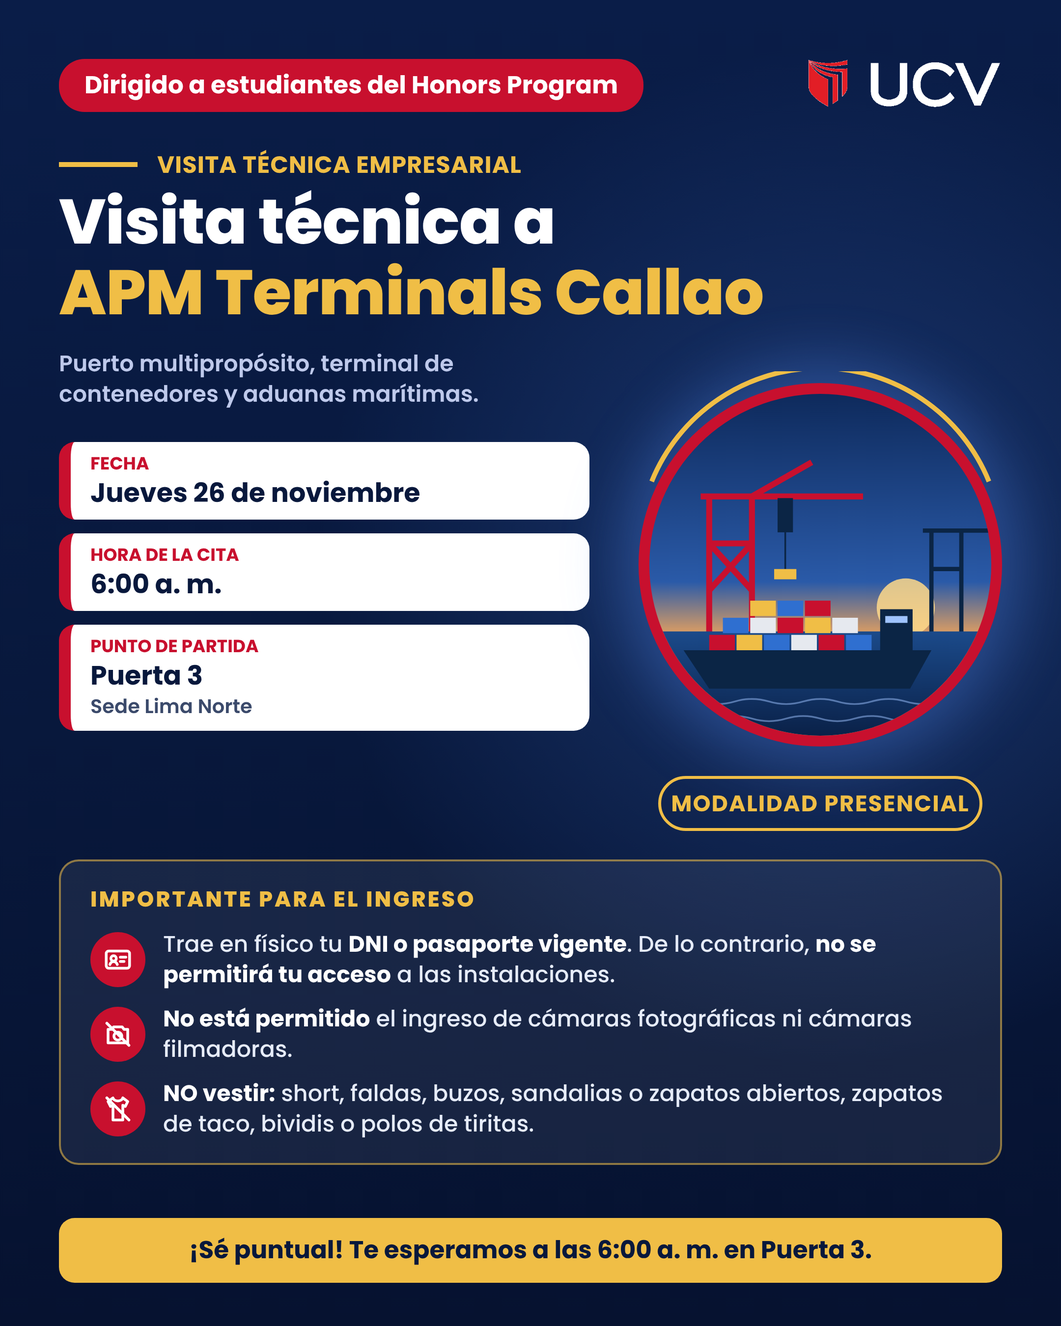
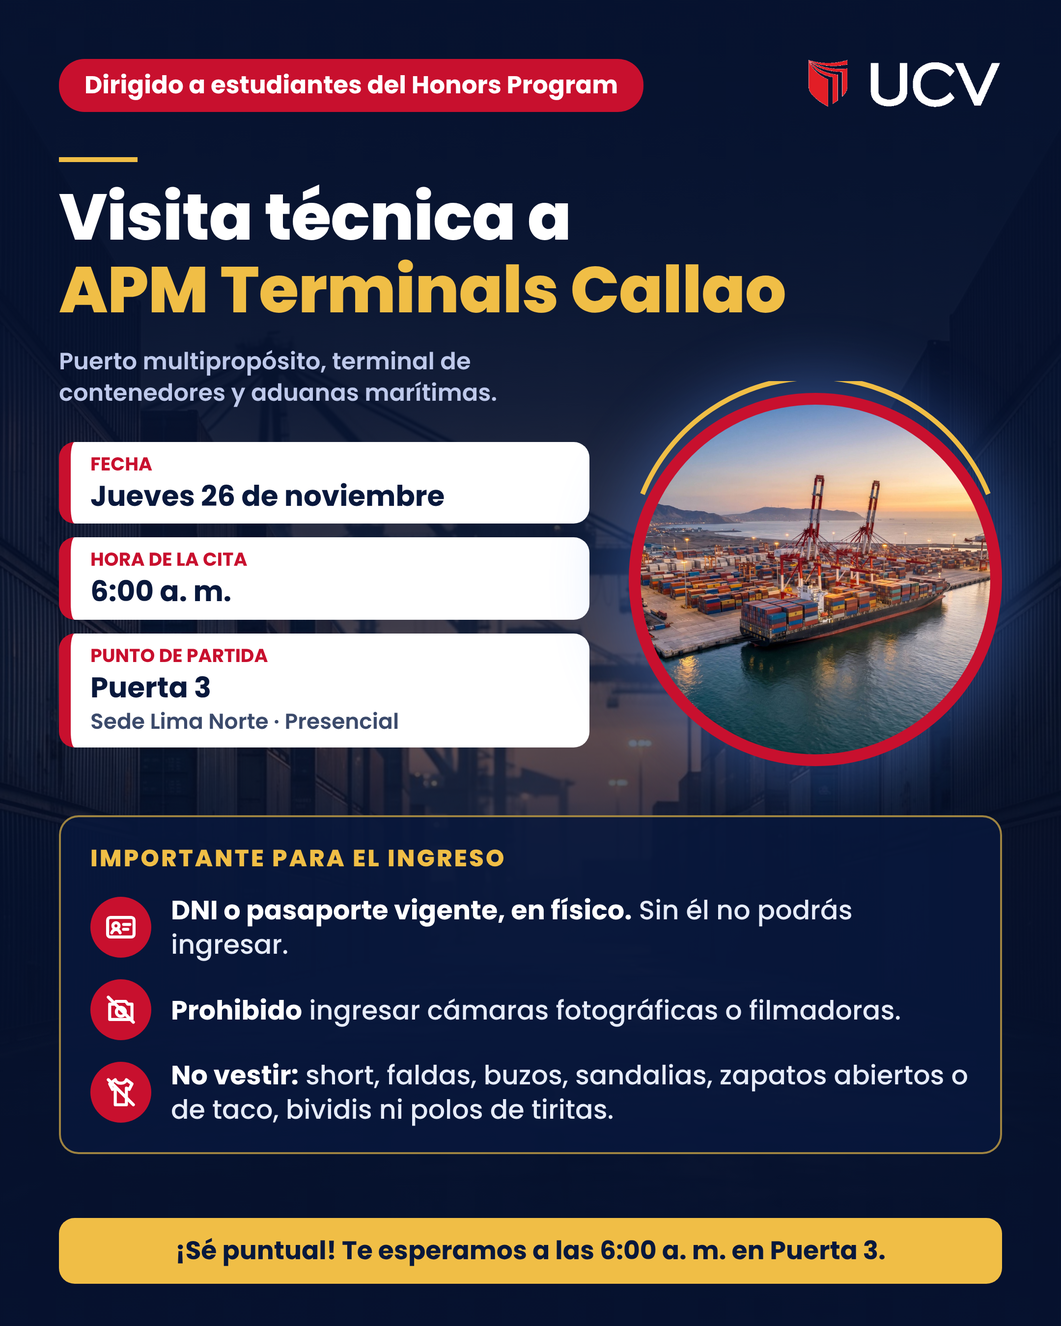
Use port photos in APM flyers and apply design critique fixes
Claude-Session: https://claude.ai/code/session_01MbSN7717AodApa1qAjWUzD

diff --git a/flyer-apm/modelo2_dinamico.html b/flyer-apm/modelo2_dinamico.html
@@ -5,58 +5,51 @@
 *{margin:0;padding:0;box-sizing:border-box}
 :root{--rojo:#d7132a;--navy:#13235b;--azul:#2a49b8;--amar:#ffd21f}
 body{width:1080px;height:1620px;font-family:'Montserrat',sans-serif;position:relative;overflow:hidden;background:#fff;color:var(--navy)}
-.halo{position:absolute;left:470px;top:230px;width:720px;height:720px;border-radius:50%;background:radial-gradient(circle,#eef2fb 0%,#e3e9f8 60%,#dfe6f7 100%)}
+.halo{position:absolute;left:470px;top:210px;width:720px;height:720px;border-radius:50%;background:radial-gradient(circle,#eef2fb 0%,#e3e9f8 60%,#dfe6f7 100%)}
 .pills{position:absolute;left:36px;top:28px;display:flex;gap:12px}
 .pill{font-size:21px;font-weight:700;padding:9px 22px;border-radius:30px;border:3px solid var(--navy)}
 .pill.r{background:var(--rojo);border-color:var(--rojo);color:#fff}
 .logo{position:absolute;right:40px;top:28px;height:46px}
 .head{position:absolute;left:44px;top:118px;display:flex;gap:16px;align-items:center;font-size:19px;font-weight:700;line-height:1.15}
 .head svg{width:40px;height:40px;stroke:var(--navy);fill:none;stroke-width:2}
-.info{position:absolute;right:30px;top:112px;width:330px;border:3px solid var(--amar);border-radius:18px;padding:10px 14px;text-align:center;font-size:15px;font-weight:600;background:#fff;box-shadow:0 4px 12px rgba(0,0,0,.08)}
-.info b{color:var(--rojo)}
 .ban{position:absolute;left:30px;font-weight:900;font-style:italic;text-transform:uppercase;transform:rotate(-4deg);transform-origin:left;padding:4px 30px 6px 18px;white-space:nowrap;
  clip-path:polygon(2% 0,100% 0,96% 50%,100% 100%,0 100%,3% 50%)}
 .b1{top:200px;background:var(--amar);font-size:34px;color:var(--navy)}
 .b2{top:262px;background:var(--rojo);color:#fff;font-size:64px}
 .b3{top:352px;background:var(--navy);color:#fff;font-size:64px}
-.script{position:absolute;left:44px;top:465px;font-family:'Montserrat';font-weight:900;font-style:italic;font-size:34px;line-height:1.05;transform:rotate(-4deg);transform-origin:left}
+.script{position:absolute;left:44px;top:470px;font-weight:900;font-style:italic;font-size:36px;line-height:1.05;transform:rotate(-4deg);transform-origin:left}
 .script span{display:block;color:var(--rojo)}
-.desc{position:absolute;left:44px;top:600px;width:420px;border-left:5px solid var(--rojo);padding-left:16px;font-size:23px;font-weight:500;line-height:1.35}
+.desc{position:absolute;left:44px;top:610px;width:440px;border-left:5px solid var(--rojo);padding-left:16px;font-size:25px;font-weight:500;line-height:1.35}
 .desc b{color:var(--rojo)}
-.saborea{position:absolute;right:46px;top:250px;font-family:'Kaushan Script';font-size:40px;color:var(--navy);transform:rotate(-8deg);text-align:right;line-height:1.05}
-.saborea span{color:var(--rojo)}
-.port{position:absolute;left:520px;top:400px;width:470px;height:470px;border-radius:50%;overflow:hidden;border:10px solid #fff;box-shadow:0 10px 30px rgba(19,35,91,.25)}
-.port img{width:100%;height:100%}
-.badge{position:absolute;left:470px;top:820px;background:#fff;border-radius:22px;box-shadow:0 6px 18px rgba(0,0,0,.15);padding:10px 22px 10px 12px;display:flex;align-items:center;gap:14px}
-.badge .ci{width:58px;height:58px;border-radius:50%;background:var(--navy);display:grid;place-items:center}
-.badge .ci svg{width:30px;height:30px;stroke:var(--amar);fill:none;stroke-width:2.2}
-.badge small{display:block;font-size:16px;font-weight:600;color:#55607f}
-.badge b{display:inline-block;background:var(--navy);color:#fff;font-style:italic;font-weight:900;font-size:24px;padding:3px 16px;border-radius:10px;transform:rotate(-2deg)}
+.port{position:absolute;left:510px;top:380px;width:500px;height:500px;border-radius:50%;overflow:hidden;border:10px solid #fff;box-shadow:0 10px 30px rgba(19,35,91,.25)}
+.port img{width:100%;height:100%;object-fit:cover;object-position:52% 55%}
 .blue{position:absolute;left:0;right:0;top:930px;bottom:0;background:repeating-linear-gradient(135deg,#2746b3 0 22px,#2a4bbd 22px 44px)}
 .wave{position:absolute;left:0;right:0;top:905px;height:60px}
-.when{position:absolute;left:40px;right:40px;top:985px;background:#fff;border-radius:30px;box-shadow:0 8px 0 var(--amar);display:flex;align-items:center;padding:22px 0}
-.when > div{flex:1;display:flex;align-items:center;justify-content:center;gap:18px}
+.when{position:absolute;left:30px;right:30px;top:975px;background:#fff;border-radius:30px;box-shadow:0 8px 0 var(--amar);display:flex;align-items:center;padding:22px 0}
+.when > div{flex:1;display:flex;align-items:center;justify-content:center;gap:14px}
 .when > div + div{border-left:3px solid #dfe4f2}
-.when .ci{width:66px;height:66px;border-radius:50%;background:var(--navy);display:grid;place-items:center}
-.when .ci svg{width:34px;height:34px;stroke:#fff;fill:none;stroke-width:2}
-.when small{display:block;font-size:17px;font-weight:700;color:var(--rojo)}
-.when b{font-size:34px;font-weight:900;font-style:italic;color:var(--navy)}
-.reqs{position:absolute;left:40px;right:40px;top:1160px;display:flex;color:#fff}
+.when .ci{flex:none;width:58px;height:58px;border-radius:50%;background:var(--navy);display:grid;place-items:center}
+.when .ci svg{width:30px;height:30px;stroke:#fff;fill:none;stroke-width:2}
+.when small{display:block;font-size:16px;font-weight:700;color:var(--rojo)}
+.when b{display:block;font-size:30px;font-weight:900;font-style:italic;color:var(--navy);line-height:1.1}
+.when i{display:block;font-style:normal;font-size:16px;font-weight:600;color:#55607f}
+.reqs{position:absolute;left:30px;right:30px;top:1135px;display:flex;color:#fff}
 .reqs > div{flex:1;text-align:center;padding:0 14px}
 .reqs > div + div{border-left:2px solid rgba(255,255,255,.3)}
 .reqs .ci{width:84px;height:84px;margin:0 auto 12px;border-radius:50%;border:3px solid var(--amar);display:grid;place-items:center}
 .reqs .ci svg{width:42px;height:42px;stroke:var(--amar);fill:none;stroke-width:2;stroke-linecap:round;stroke-linejoin:round}
-.reqs h3{font-size:22px;font-weight:800;line-height:1.15}
-.reqs p{margin-top:8px;font-size:17px;font-weight:500;line-height:1.35;color:#dfe6ff}
-.alert{position:absolute;left:40px;right:40px;top:1440px;text-align:center;font-size:19px;font-weight:700;color:var(--navy);background:var(--amar);border-radius:16px;padding:12px 10px}
-.bye{position:absolute;left:0;right:0;top:1515px;text-align:center;font-family:'Kaushan Script';font-size:52px;color:#fff;transform:rotate(-3deg)}
+.reqs h3{font-size:28px;font-weight:800;line-height:1.15}
+.reqs p{margin-top:8px;font-size:24px;font-weight:500;line-height:1.3;color:#eef2ff}
+.alert{position:absolute;left:30px;right:30px;top:1445px;display:flex;align-items:center;justify-content:center;gap:12px;font-size:23px;font-weight:800;color:var(--navy);background:var(--amar);border-radius:16px;padding:12px 10px}
+.alert svg{width:30px;height:30px;stroke:var(--navy);fill:none;stroke-width:2.4;stroke-linecap:round;stroke-linejoin:round}
+.bye{position:absolute;left:0;right:0;top:1520px;text-align:center;font-family:'Kaushan Script';font-size:52px;color:#fff;transform:rotate(-3deg)}
 .bye span{color:var(--amar)}
 </style></head><body>
 <div class="halo"></div>
 <div class="pills"><div class="pill">✓ Honors Program</div><div class="pill r">Presencial</div></div>
 <img class="logo" src="assets/ucv_logo.png">
 <div class="head"><svg viewBox="0 0 24 24"><path d="M2 6.5C4.5 5 8 5 12 7c4-2 7.5-2 10-.5V19c-2.5-1.5-6-1.5-10 .5-4-2-7.5-2-10-.5z M12 7v12.5"/></svg>
-  <div>VISITA TÉCNICA PARA<br>ESTUDIANTES DEL HONORS PROGRAM</div></div>
+  <div>ACTIVIDAD EXCLUSIVA PARA<br>ESTUDIANTES DEL HONORS PROGRAM</div></div>
 
 <div class="ban b1">Visita técnica:</div>
 <div class="ban b2">APM Terminals</div>
@@ -64,26 +57,25 @@ body{width:1080px;height:1620px;font-family:'Montserrat',sans-serif;position:rel
 <div class="script">el comercio exterior<span>en acción</span></div>
 <div class="desc">Conoce por dentro un <b>puerto multipropósito</b>, su <b>terminal de contenedores</b> y las <b>aduanas marítimas</b>.</div>
 
-<div class="port"><img src="assets/puerto.svg"></div>
-<div class="badge"><div class="ci"><svg viewBox="0 0 24 24"><path d="M12 21s-7-6.2-7-11.5A7 7 0 0 1 19 9.5C19 14.8 12 21 12 21z"/><circle cx="12" cy="9.5" r="2.5"/></svg></div>
-  <div><small>Punto de partida · Sede Lima Norte</small><b>PUERTA 3</b></div></div>
+<div class="port"><img src="assets/puerto_aereo.jpg"></div>
 
 <div class="blue"></div>
 <svg class="wave" viewBox="0 0 1080 60" preserveAspectRatio="none"><path d="M0 30 Q270 0 540 22 T1080 14 V60 H0Z" fill="#2746b3"/><path d="M0 30 Q270 0 540 22 T1080 14" stroke="#d7132a" stroke-width="6" fill="none"/><path d="M0 40 Q270 12 540 32 T1080 26" stroke="#ffd21f" stroke-width="6" fill="none"/></svg>
 
 <div class="when">
   <div><div class="ci"><svg viewBox="0 0 24 24"><rect x="3" y="5" width="18" height="16" rx="2"/><path d="M3 10h18M8 3v4M16 3v4M7 14h3M7 17h6"/></svg></div><div><small>¿CUÁNDO?</small><b>JUE 26 NOV</b></div></div>
-  <div><div class="ci"><svg viewBox="0 0 24 24"><circle cx="12" cy="12" r="9"/><path d="M12 7v5l3 2"/></svg></div><div><small>¿A QUÉ HORA ES LA CITA?</small><b>6:00 A.M.</b></div></div>
+  <div><div class="ci"><svg viewBox="0 0 24 24"><circle cx="12" cy="12" r="9"/><path d="M12 7v5l3 2"/></svg></div><div><small>¿A QUÉ HORA?</small><b>6:00 A.M.</b></div></div>
+  <div><div class="ci"><svg viewBox="0 0 24 24"><path d="M12 21s-7-6.2-7-11.5A7 7 0 0 1 19 9.5C19 14.8 12 21 12 21z"/><circle cx="12" cy="9.5" r="2.5"/></svg></div><div><small>¿DÓNDE?</small><b>PUERTA 3</b><i>Sede Lima Norte</i></div></div>
 </div>
 
 <div class="reqs">
   <div><div class="ci"><svg viewBox="0 0 24 24"><rect x="2.5" y="5" width="19" height="14" rx="2"/><circle cx="8.5" cy="11" r="2.2"/><path d="M5.5 16c.6-1.6 1.7-2.4 3-2.4s2.4.8 3 2.4M14 10h4.5M14 13.5h3"/></svg></div>
-    <h3>Trae tu DNI o pasaporte</h3><p>Vigente y en físico. Sin él no se permite el acceso a las instalaciones.</p></div>
+    <h3>DNI o pasaporte</h3><p>Vigente y en físico</p></div>
   <div><div class="ci"><svg viewBox="0 0 24 24"><path d="M4 8h3l1.5-2h7L17 8h3v11H4z"/><circle cx="12" cy="13.5" r="3.2"/><path d="M3 3l18 18"/></svg></div>
-    <h3>Sin cámaras</h3><p>No está permitido el ingreso de cámaras fotográficas ni filmadoras.</p></div>
+    <h3>Sin cámaras</h3><p>Ni fotográficas ni filmadoras</p></div>
   <div><div class="ci"><svg viewBox="0 0 24 24"><path d="M8 3l-4 3 2 4 2-1v12h8V9l2 1 2-4-4-3c-.5 1.5-2 2.5-4 2.5S8.5 4.5 8 3z"/><path d="M3 3l18 18"/></svg></div>
-    <h3>Vestimenta adecuada</h3><p>NO short, faldas, buzos, sandalias o zapatos abiertos, tacos, bividis ni polos de tiritas.</p></div>
+    <h3>No vestir</h3><p>Short, faldas, buzos, sandalias, zapatos abiertos o de taco, bividis ni polos de tiritas</p></div>
 </div>
-<div class="alert">⚠ Sin DNI o pasaporte en físico no podrás ingresar a las instalaciones</div>
+<div class="alert"><svg viewBox="0 0 24 24"><path d="M12 3 2 20h20z"/><path d="M12 10v4M12 17v.5"/></svg>Sin DNI o pasaporte en físico no podrás ingresar</div>
 <div class="bye">¡Te esperamos <span>puntual!</span></div>
 </body></html>

diff --git a/flyer-apm/modelo1_institucional.html b/flyer-apm/modelo1_institucional.html
@@ -5,56 +5,53 @@
 *{margin:0;padding:0;box-sizing:border-box}
 :root{--rojo:#c8102e;--navy:#08183c;--gold:#f0be46}
 body{width:1080px;height:1350px;font-family:'Poppins',sans-serif;position:relative;overflow:hidden;color:#fff;
- background:radial-gradient(circle at 78% 42%,rgba(60,110,200,.35),transparent 45%),linear-gradient(180deg,#0a1d48 0%,#08183c 55%,#061230 100%)}
+ background:linear-gradient(180deg,rgba(6,18,48,.94) 0%,rgba(6,18,48,.86) 30%,rgba(6,18,48,.6) 55%,rgba(6,18,48,.82) 68%,rgba(6,18,48,.96) 100%),url(assets/fondo_patio.jpg) center 30%/cover,#08183c}
 .tag{position:absolute;left:60px;top:60px;background:var(--rojo);font-size:25px;font-weight:700;padding:8px 26px;border-radius:26px}
 .logo{position:absolute;right:60px;top:59px;height:52px}
-.kick{position:absolute;left:60px;top:150px;display:flex;align-items:center;gap:20px;font-size:24px;font-weight:700;color:var(--gold);letter-spacing:.5px}
-.kick::before{content:"";width:80px;height:5px;background:var(--gold)}
-h1{position:absolute;left:60px;top:190px;font-size:64px;font-weight:800;line-height:1.12;letter-spacing:-.5px}
+.bar{position:absolute;left:60px;top:160px;width:80px;height:5px;background:var(--gold)}
+h1{position:absolute;left:60px;top:185px;font-size:66px;font-weight:800;line-height:1.12;letter-spacing:-.5px}
 h1 .gold{color:var(--gold)}
-.sub{position:absolute;left:60px;top:355px;width:560px;font-size:23px;font-weight:600;color:#bec9eb;line-height:1.35}
-.foto{position:absolute;left:650px;top:390px;width:370px;height:370px;border-radius:50%;background:var(--rojo);box-shadow:0 0 60px 20px rgba(90,150,255,.3)}
-.foto img{position:absolute;inset:11px;width:348px;height:348px;border-radius:50%}
-.foto svg{position:absolute;left:-12px;top:-12px;width:394px;height:394px}
+.sub{position:absolute;left:60px;top:352px;width:560px;font-size:24px;font-weight:600;color:#bec9eb;line-height:1.35}
+.foto{position:absolute;left:640px;top:400px;width:380px;height:380px;border-radius:50%;background:var(--rojo);box-shadow:0 0 60px 20px rgba(90,150,255,.3)}
+.foto img{position:absolute;inset:12px;width:356px;height:356px;border-radius:50%;object-fit:cover;object-position:52% 55%}
+.foto svg{position:absolute;left:-12px;top:-12px;width:404px;height:404px}
 .cards{position:absolute;left:60px;top:450px;width:540px;display:flex;flex-direction:column;gap:14px}
 .card{background:#fff;border-radius:16px;border-left:12px solid var(--rojo);padding:8px 20px 10px;color:var(--navy)}
-.card small{display:block;font-size:18px;font-weight:700;color:var(--rojo)}
-.card b{display:block;font-size:27px;font-weight:700;line-height:1.25}
-.card i{display:block;font-style:normal;font-size:20px;font-weight:600;color:#3b4a6b}
-.pres{position:absolute;left:670px;top:790px;width:330px;text-align:center;border:3px solid var(--gold);color:var(--gold);font-size:23px;font-weight:700;padding:8px 0;border-radius:30px;letter-spacing:1px}
-.req{position:absolute;left:60px;right:60px;top:875px;background:rgba(255,255,255,.07);border:2px solid rgba(240,190,70,.55);border-radius:20px;padding:22px 30px 24px}
-.req h2{font-size:22px;font-weight:800;color:var(--gold);letter-spacing:2px;margin-bottom:6px}
-.it{display:flex;gap:18px;align-items:center;margin-top:14px}
-.ic{flex:none;width:56px;height:56px;border-radius:50%;background:var(--rojo);display:grid;place-items:center}
-.ic svg{width:30px;height:30px;stroke:#fff;fill:none;stroke-width:2.2;stroke-linecap:round;stroke-linejoin:round}
-.it p{font-size:23px;font-weight:500;line-height:1.35;color:#e6ecfa}
+.card small{display:block;font-size:19px;font-weight:700;color:var(--rojo)}
+.card b{display:block;font-size:29px;font-weight:700;line-height:1.25}
+.card i{display:block;font-style:normal;font-size:22px;font-weight:600;color:#3b4a6b}
+.req{position:absolute;left:60px;right:60px;top:830px;background:rgba(8,24,60,.85);border:2px solid rgba(240,190,70,.65);border-radius:20px;padding:24px 30px 26px}
+.req h2{font-size:24px;font-weight:800;color:var(--gold);letter-spacing:2px}
+.it{display:flex;gap:20px;align-items:center;margin-top:18px}
+.ic{flex:none;width:62px;height:62px;border-radius:50%;background:var(--rojo);display:grid;place-items:center}
+.ic svg{width:34px;height:34px;stroke:#fff;fill:none;stroke-width:2.2;stroke-linecap:round;stroke-linejoin:round}
+.it p{font-size:27px;font-weight:500;line-height:1.3;color:#e6ecfa}
 .it b{color:#fff;font-weight:700}
-.orgz{position:absolute;left:60px;right:60px;top:1240px;text-align:center;font-size:25px;font-weight:700;color:#08183c;background:#f0be46;border-radius:16px;padding:14px 0}
+.orgz{position:absolute;left:60px;right:60px;top:1240px;text-align:center;font-size:26px;font-weight:700;color:#08183c;background:#f0be46;border-radius:16px;padding:14px 0}
 </style></head><body>
 <div class="tag">Dirigido a estudiantes del Honors Program</div>
 <img class="logo" src="assets/ucv_logo_blanco.png">
-<div class="kick">VISITA TÉCNICA EMPRESARIAL</div>
+<div class="bar"></div>
 <h1>Visita técnica a<br><span class="gold">APM Terminals Callao</span></h1>
 <div class="sub">Puerto multipropósito, terminal de contenedores y aduanas marítimas.</div>
 
 <div class="cards">
   <div class="card"><small>FECHA</small><b>Jueves 26 de noviembre</b></div>
   <div class="card"><small>HORA DE LA CITA</small><b>6:00 a. m.</b></div>
-  <div class="card"><small>PUNTO DE PARTIDA</small><b>Puerta 3</b><i>Sede Lima Norte</i></div>
+  <div class="card"><small>PUNTO DE PARTIDA</small><b>Puerta 3</b><i>Sede Lima Norte · Presencial</i></div>
 </div>
 
-<div class="foto"><img src="assets/puerto.svg">
+<div class="foto"><img src="assets/puerto_aereo.jpg">
   <svg viewBox="0 0 404 404"><path d="M 26 115 A 190 190 0 0 1 378 115" fill="none" stroke="#f0be46" stroke-width="5"/></svg></div>
-<div class="pres">MODALIDAD PRESENCIAL</div>
 
 <div class="req">
   <h2>IMPORTANTE PARA EL INGRESO</h2>
   <div class="it"><div class="ic"><svg viewBox="0 0 24 24"><rect x="2.5" y="5" width="19" height="14" rx="2"/><circle cx="8.5" cy="11" r="2.2"/><path d="M5.5 16c.6-1.6 1.7-2.4 3-2.4s2.4.8 3 2.4M14 10h4.5M14 13.5h3"/></svg></div>
-    <p>Trae en físico tu <b>DNI o pasaporte vigente</b>. De lo contrario, <b>no se permitirá tu acceso</b> a las instalaciones.</p></div>
+    <p><b>DNI o pasaporte vigente, en físico.</b> Sin él no podrás ingresar.</p></div>
   <div class="it"><div class="ic"><svg viewBox="0 0 24 24"><path d="M4 8h3l1.5-2h7L17 8h3v11H4z"/><circle cx="12" cy="13.5" r="3.2"/><path d="M3 3l18 18"/></svg></div>
-    <p><b>No está permitido</b> el ingreso de cámaras fotográficas ni cámaras filmadoras.</p></div>
+    <p><b>Prohibido</b> ingresar cámaras fotográficas o filmadoras.</p></div>
   <div class="it"><div class="ic"><svg viewBox="0 0 24 24"><path d="M8 3l-4 3 2 4 2-1v12h8V9l2 1 2-4-4-3c-.5 1.5-2 2.5-4 2.5S8.5 4.5 8 3z"/><path d="M3 3l18 18"/></svg></div>
-    <p><b>NO vestir:</b> short, faldas, buzos, sandalias o zapatos abiertos, zapatos de taco, bividis o polos de tiritas.</p></div>
+    <p><b>No vestir:</b> short, faldas, buzos, sandalias, zapatos abiertos o de taco, bividis ni polos de tiritas.</p></div>
 </div>
 <div class="orgz">¡Sé puntual! Te esperamos a las 6:00 a. m. en Puerta 3.</div>
 </body></html>

diff --git a/flyer-apm/modelo3_gala.html b/flyer-apm/modelo3_gala.html
@@ -5,7 +5,9 @@
 *{margin:0;padding:0;box-sizing:border-box}
 :root{--navy:#081432;--gold:#e2b85c;--goldl:#f6dc96;--goldd:#b08434;--soft:#cdd6eb}
 body{width:1080px;height:1350px;position:relative;overflow:hidden;color:#fff;font-family:'Poppins',sans-serif;
- background:radial-gradient(ellipse 380px 300px at 50% 150px,rgba(226,184,92,.28),transparent 70%),linear-gradient(180deg,#081432 0%,#0d1f4c 60%,#081432 100%)}
+ background:radial-gradient(ellipse 380px 300px at 50% 150px,rgba(226,184,92,.28),transparent 70%),
+ linear-gradient(180deg,rgba(8,20,50,.95) 0%,rgba(8,20,50,.88) 45%,rgba(8,20,50,.7) 75%,rgba(8,20,50,.9) 100%),
+ url(assets/fondo_patio.jpg) center 40%/cover,#081432}
 .f1{position:absolute;inset:26px;border:2px solid rgba(226,184,92,.85);border-radius:18px}
 .f2{position:absolute;inset:35px;border:1px solid rgba(226,184,92,.35);border-radius:12px}
 .dia{position:absolute;width:18px;height:18px;background:var(--gold);transform:rotate(45deg)}
@@ -16,25 +18,25 @@ body{width:1080px;height:1350px;position:relative;overflow:hidden;color:#fff;fon
 h1{position:absolute;left:0;right:0;top:360px;text-align:center;font-family:'Gelasio';font-weight:700;font-size:60px;line-height:1.16}
 h1 .g{color:var(--gold)}
 .orn{position:absolute;left:50%;top:522px;width:300px;margin-left:-150px;height:16px}
-.arch{position:absolute;left:80px;top:580px;width:330px;height:380px;border-radius:165px 165px 0 0;overflow:hidden;border:5px solid var(--goldd);outline:3px solid var(--gold);outline-offset:9px;background:#2a5aa8}
-.arch img{width:100%;height:100%;object-fit:cover}
-.rx{position:absolute;left:470px;top:585px;width:530px}
-.rx .k{font-size:20px;font-weight:600;color:var(--gold);letter-spacing:1px}
-.rx .n{font-family:'Gelasio';font-weight:700;font-size:44px;line-height:1.1;margin-top:4px}
-.rx .s{font-size:21px;font-weight:600;color:var(--soft);margin-top:6px}
-.rows{margin-top:22px;border-top:1px solid rgba(226,184,92,.5)}
-.row{position:relative;padding:12px 0 12px 26px;border-bottom:1px solid rgba(226,184,92,.5)}
+.arch{position:absolute;left:80px;top:572px;width:330px;height:400px;border-radius:165px 165px 0 0;overflow:hidden;border:5px solid var(--goldd);outline:3px solid var(--gold);outline-offset:9px;background:#2a5aa8}
+.arch img{width:100%;height:100%;object-fit:cover;object-position:56% 55%}
+.rx{position:absolute;left:470px;top:575px;width:530px}
+.rx .k{font-size:21px;font-weight:600;color:var(--gold);letter-spacing:1px}
+.rx .n{font-family:'Gelasio';font-weight:700;font-size:37px;white-space:nowrap;line-height:1.1;margin-top:4px}
+.rx .s{font-size:22px;font-weight:600;color:var(--soft);margin-top:6px}
+.rows{margin-top:20px;border-top:1px solid rgba(226,184,92,.5)}
+.row{position:relative;padding:10px 0 10px 26px;border-bottom:1px solid rgba(226,184,92,.5)}
 .row::before{content:"";position:absolute;left:0;top:26px;width:10px;height:10px;border-radius:50%;background:var(--gold)}
-.row small{display:block;font-size:16px;font-weight:600;color:var(--gold)}
-.row b{display:block;font-size:25px;font-weight:600;line-height:1.25}
-.row i{font-style:normal;font-size:20px;color:var(--soft)}
-.req{position:absolute;left:80px;right:80px;top:1025px;border:2px solid var(--gold);border-radius:18px;padding:18px 28px 18px;background:rgba(8,20,50,.55)}
-.req h2{position:absolute;top:-17px;left:50%;transform:translateX(-50%);background:#0b1b44;padding:0 18px;font-family:'Gelasio';font-style:italic;font-weight:500;font-size:26px;color:var(--goldl);white-space:nowrap}
-.req ul{list-style:none;margin-top:6px}
-.req li{position:relative;padding-left:26px;font-size:21px;line-height:1.38;margin-top:9px;color:#eef2fb}
-.req li::before{content:"";position:absolute;left:2px;top:10px;width:9px;height:9px;background:var(--gold);transform:rotate(45deg)}
+.row small{display:block;font-size:19px;font-weight:600;color:var(--gold)}
+.row b{display:block;font-size:28px;font-weight:600;line-height:1.25}
+.row i{font-style:normal;font-size:21px;color:var(--soft)}
+.req{position:absolute;left:70px;right:70px;top:1032px;border:2px solid var(--gold);border-radius:18px;padding:18px 26px 16px;background:rgba(8,20,50,.85)}
+.req h2{position:absolute;top:-19px;left:50%;transform:translateX(-50%);background:#0a1838;padding:0 18px;font-family:'Gelasio';font-style:italic;font-weight:500;font-size:28px;color:var(--goldl);white-space:nowrap}
+.req ul{list-style:none;margin-top:8px}
+.req li{position:relative;padding-left:26px;font-size:25px;line-height:1.3;margin-top:8px;color:#eef2fb}
+.req li::before{content:"";position:absolute;left:2px;top:12px;width:10px;height:10px;background:var(--gold);transform:rotate(45deg)}
 .req b{color:var(--goldl);font-weight:600}
-.foot{position:absolute;left:0;right:0;top:1258px;display:flex;align-items:center;justify-content:center;gap:18px;font-size:20px;font-weight:600;color:var(--soft)}
+.foot{position:absolute;left:0;right:0;top:1262px;display:flex;align-items:center;justify-content:center;gap:18px;font-size:20px;font-weight:600;color:var(--soft)}
 .foot img{height:34px}
 </style></head><body>
 <div class="f1"></div><div class="f2"></div>
@@ -47,11 +49,11 @@ h1 .g{color:var(--gold)}
 <h1>Visita técnica a<br><span class="g">APM Terminals Callao</span></h1>
 <svg class="orn" viewBox="0 0 300 16"><line x1="0" y1="8" x2="134" y2="8" stroke="#e2b85c"/><line x1="166" y1="8" x2="300" y2="8" stroke="#e2b85c"/><path d="M150 0 L158 8 L150 16 L142 8Z" fill="#e2b85c"/></svg>
 
-<div class="arch"><img src="assets/puerto.svg"></div>
+<div class="arch"><img src="assets/puerto_aereo.jpg"></div>
 <div class="rx">
-  <div class="k">VISITA TÉCNICA EMPRESARIAL</div>
-  <div class="n">Puerto del Callao</div>
-  <div class="s">Terminal de contenedores · Aduanas marítimas</div>
+  <div class="k">MODALIDAD PRESENCIAL</div>
+  <div class="n">Terminal de contenedores</div>
+  <div class="s">Puerto multipropósito · Aduanas marítimas</div>
   <div class="rows">
     <div class="row"><small>FECHA</small><b>Jueves 26 de noviembre</b></div>
     <div class="row"><small>HORA DE LA CITA</small><b>6:00 a. m.</b></div>
@@ -62,9 +64,9 @@ h1 .g{color:var(--gold)}
 <div class="req">
   <h2>Indicaciones para el ingreso</h2>
   <ul>
-    <li>Traer en físico su <b>DNI o pasaporte vigente</b>; de lo contrario, no se permitirá su acceso.</li>
-    <li><b>No está permitido</b> el ingreso de cámaras fotográficas ni cámaras filmadoras.</li>
-    <li><b>No vestir:</b> short, faldas, buzos, sandalias o zapatos abiertos, zapatos de taco, bividis o polos de tiritas.</li>
+    <li><b>DNI o pasaporte vigente, en físico.</b> Sin él no podrá ingresar.</li>
+    <li><b>Prohibido</b> ingresar cámaras fotográficas o filmadoras.</li>
+    <li><b>No vestir:</b> short, faldas, buzos, sandalias, zapatos abiertos o de taco, bividis ni polos de tiritas.</li>
   </ul>
 </div>
 
